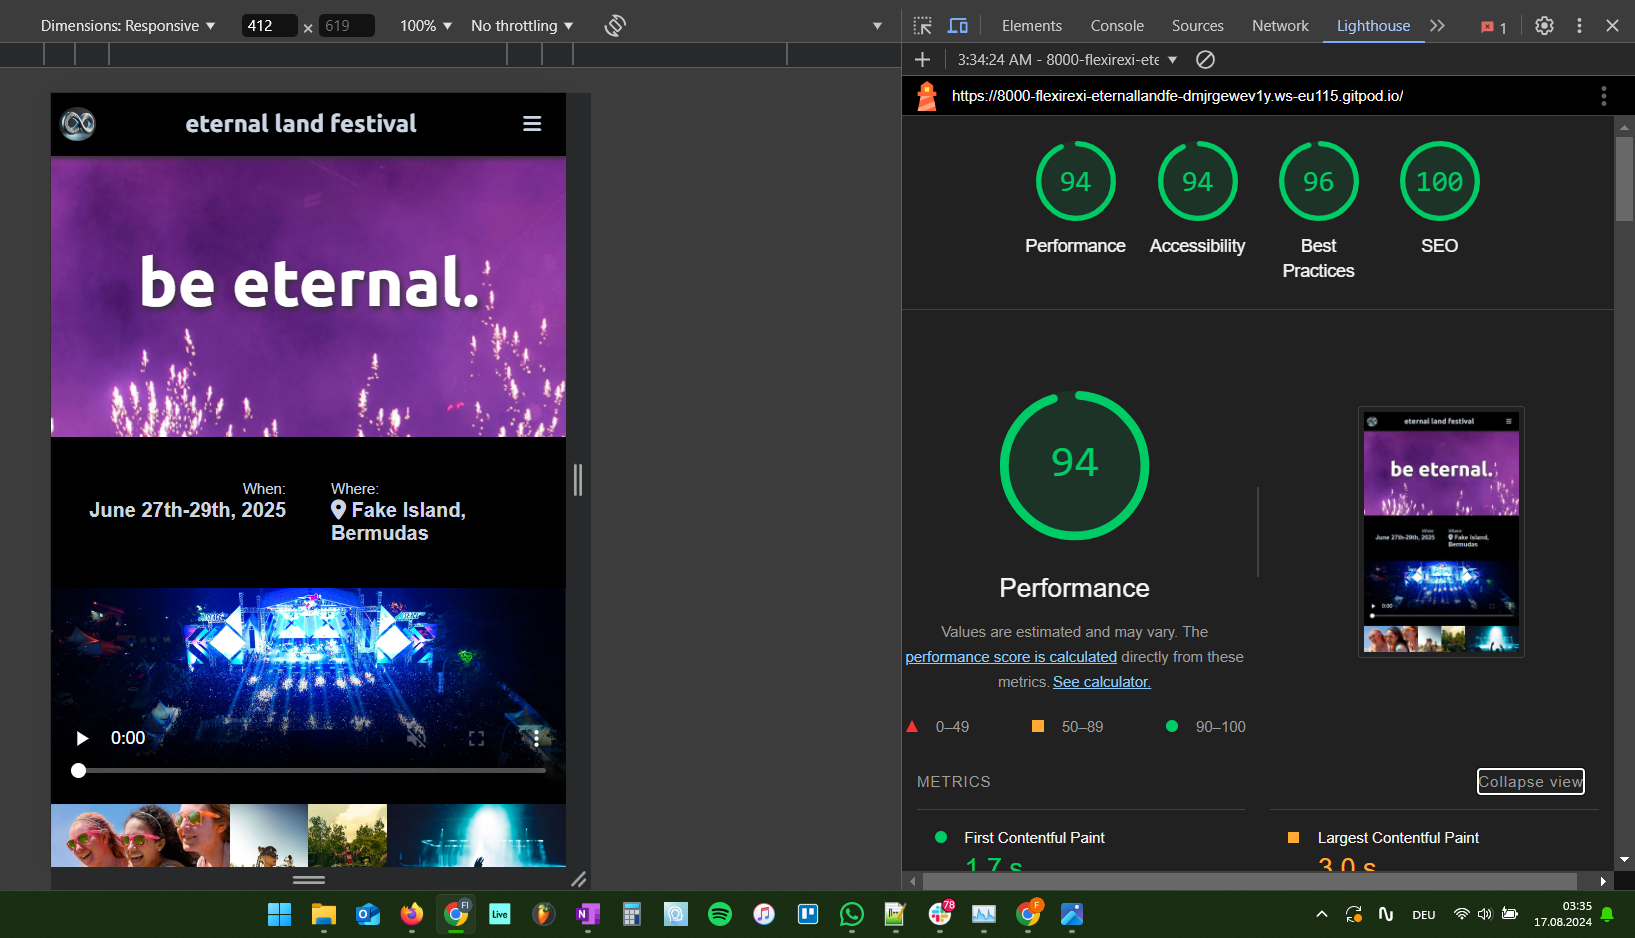
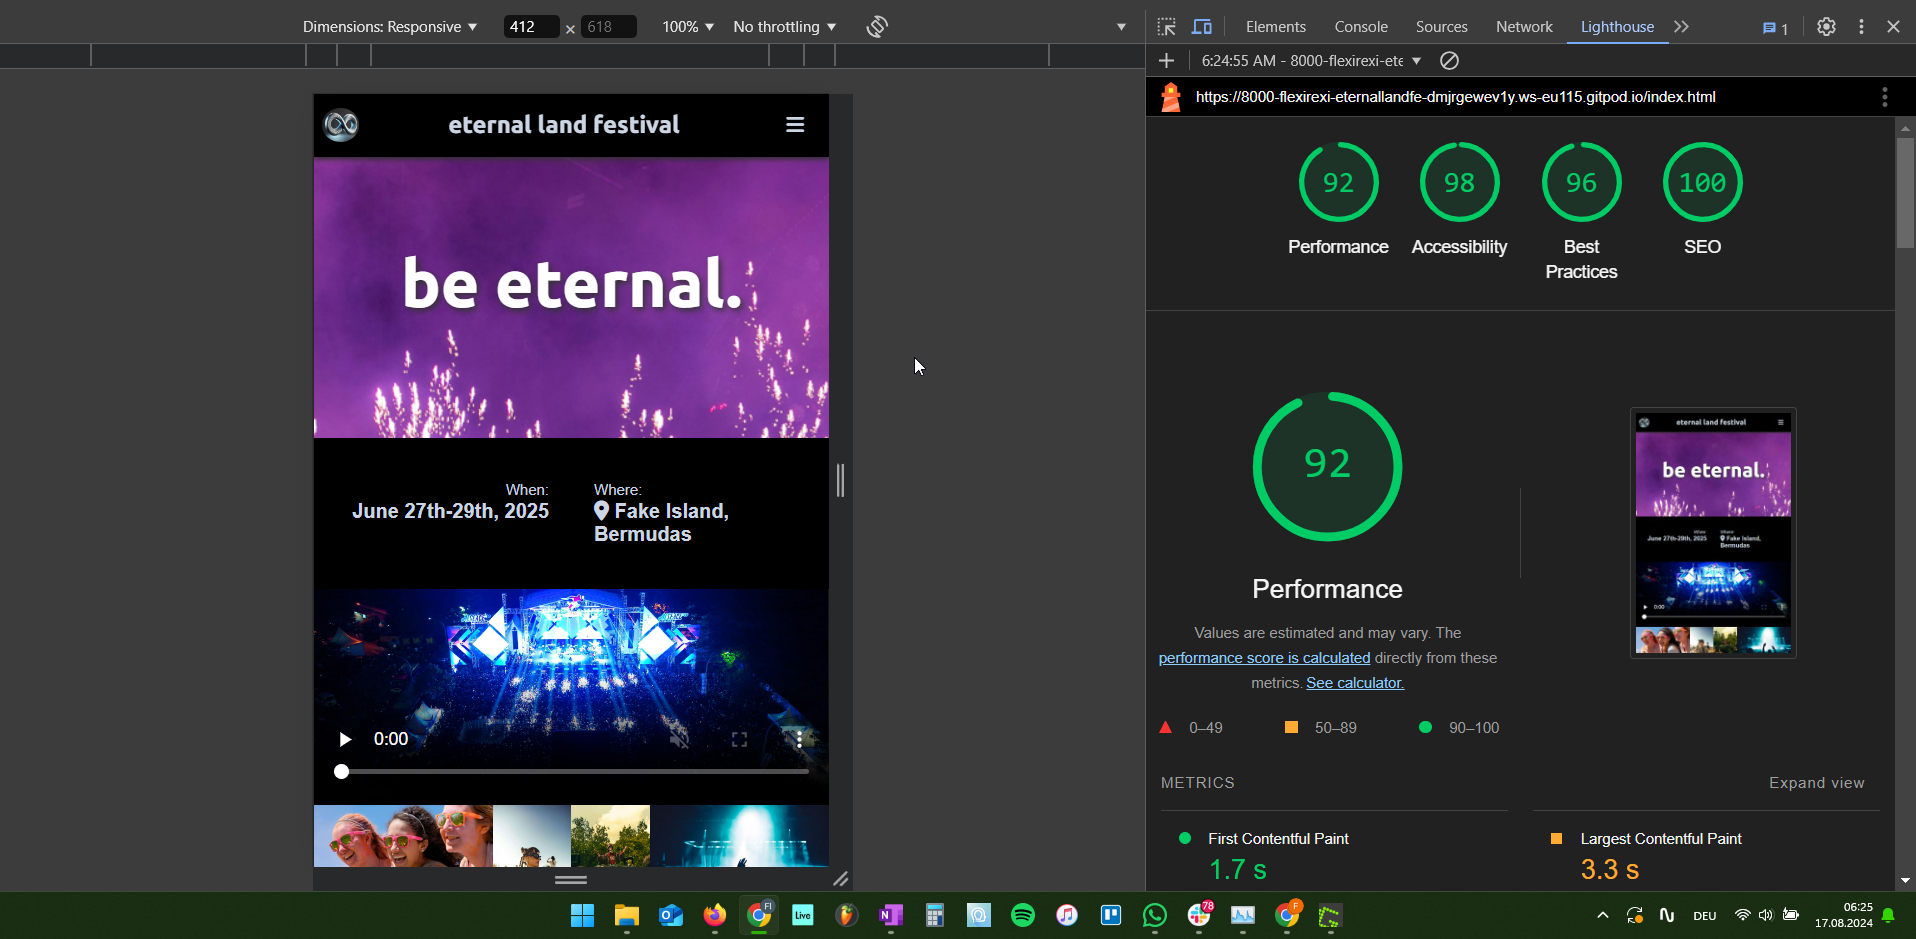
README: add validator testing results

diff --git a/index.html b/index.html
@@ -44,21 +44,15 @@
     <main>
          <section id="section_title">
             <h1 id="section_title_header" class="title_ubuntu">be eternal.</h1>
-            
-           
-
-                    <picture id="section_title_container">
-                        <source id="section_title_img0" srcset="assets/img/festival02.jpg" media="(min-width:780px)" >
-                        <source id="section_title_img5" srcset="assets/img/festival02_680.jpg"  media="(min-width:680px)" >
-                        <source id="section_title_img4" srcset="assets/img/festival02_580.jpg"  media="(min-width:580px)" >
-                        <source id="section_title_img3" srcset="assets/img/festival02_480.jpg"  media="(min-width:480px)" >
-                        <source id="section_title_img2"  srcset="assets/img/festival02_380.jpg" media="(min-width:380px)" >
-                        <source id="section_title_img1"  srcset="assets/img/festival02_280.jpg" media="(min-width:200px)" >
-                        <img src="assets/img/festival02y.jpg" alt="Eternal Land Festival Title image">
-                    </picture> 
-                
-                
-          
+            <picture id="section_title_container">
+                <source id="section_title_img0" srcset="assets/img/festival02.jpg"  media="(min-width:780px)" >
+                <source id="section_title_img5" srcset="assets/img/festival02_680.jpg"  media="(min-width:680px)" >
+                <source id="section_title_img4" srcset="assets/img/festival02_580.jpg"  media="(min-width:580px)" >
+                <source id="section_title_img3" srcset="assets/img/festival02_480.jpg"  media="(min-width:480px)" >
+                <source id="section_title_img2"  srcset="assets/img/festival02_380.jpg" media="(min-width:380px)" >
+                <source id="section_title_img1"  srcset="assets/img/festival02_280.jpg" media="(min-width:200px)" >
+                <img src="assets/img/festival02y.jpg" alt="Eternal Land Festival Title image">
+            </picture>           
         </section>
 
         

diff --git a/assets/css/style.css b/assets/css/style.css
@@ -769,6 +769,10 @@ details > p {
         color: rgb(255, 188, 45);
     }
 
+    #section_title_container {
+        width:100%;
+    }
+
     #section_lineup {
         background: rgba(36, 36, 36, 0.3) url(../img/felix01.jpg);
         background-blend-mode: darken;

diff --git a/README.md b/README.md
@@ -267,14 +267,42 @@ desktop version:
 # Testing
 ## Validator testing
 ### HTML
-- done, waiting for git push
+- done using the W3C Markup validation
+
+index.html:
+
+![home html validation ok](docs/validator_testing/html_home_ok.png)
+
+faq.html:
+
+![faq html validation ok](docs/validator_testing/html_faq_ok.png.png)
+
+index.html:
+
+![preregister html validation ok](docs/validator_testing/html_preregister_ok.png.png)
+
+
 
 ### CSS
-- done, ok
+- done, using the W3C CSS validation
+
+![css ok](docs/validator_testing/css_ok.png)
+
+
 
 ### Performance
+- index.html, faq.html and preregister.html are ok
+
+![lighthouse index.html ok](docs/validator_testing/lighthouse_home.png)
+
+![lighthouse faq.html ok](docs/validator_testing/lighthouse_faq.png)
+
+![lighthouse preregister.html ok](docs/validator_testing/lighthouse_preregister.png)
+
 
 ### Responsiveness
+- 
+
 
 ### Accessability
 
